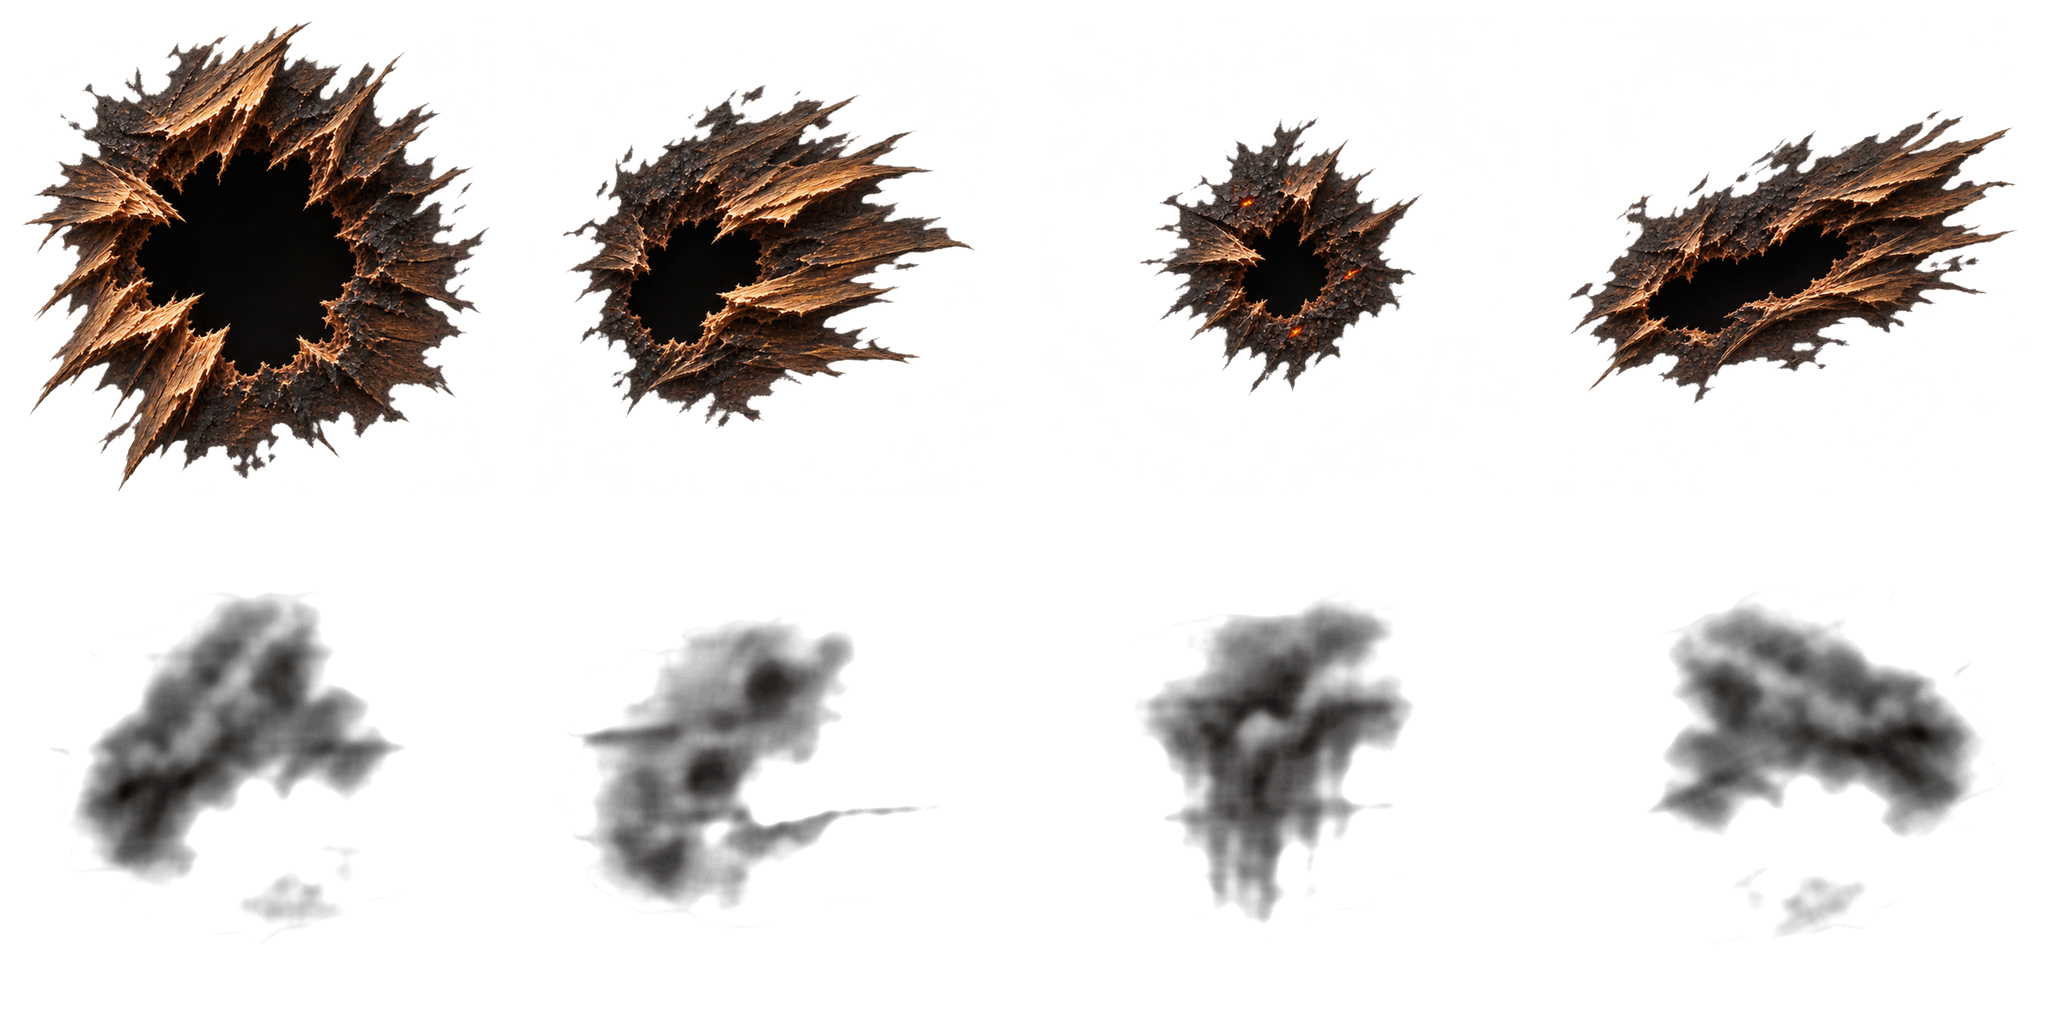
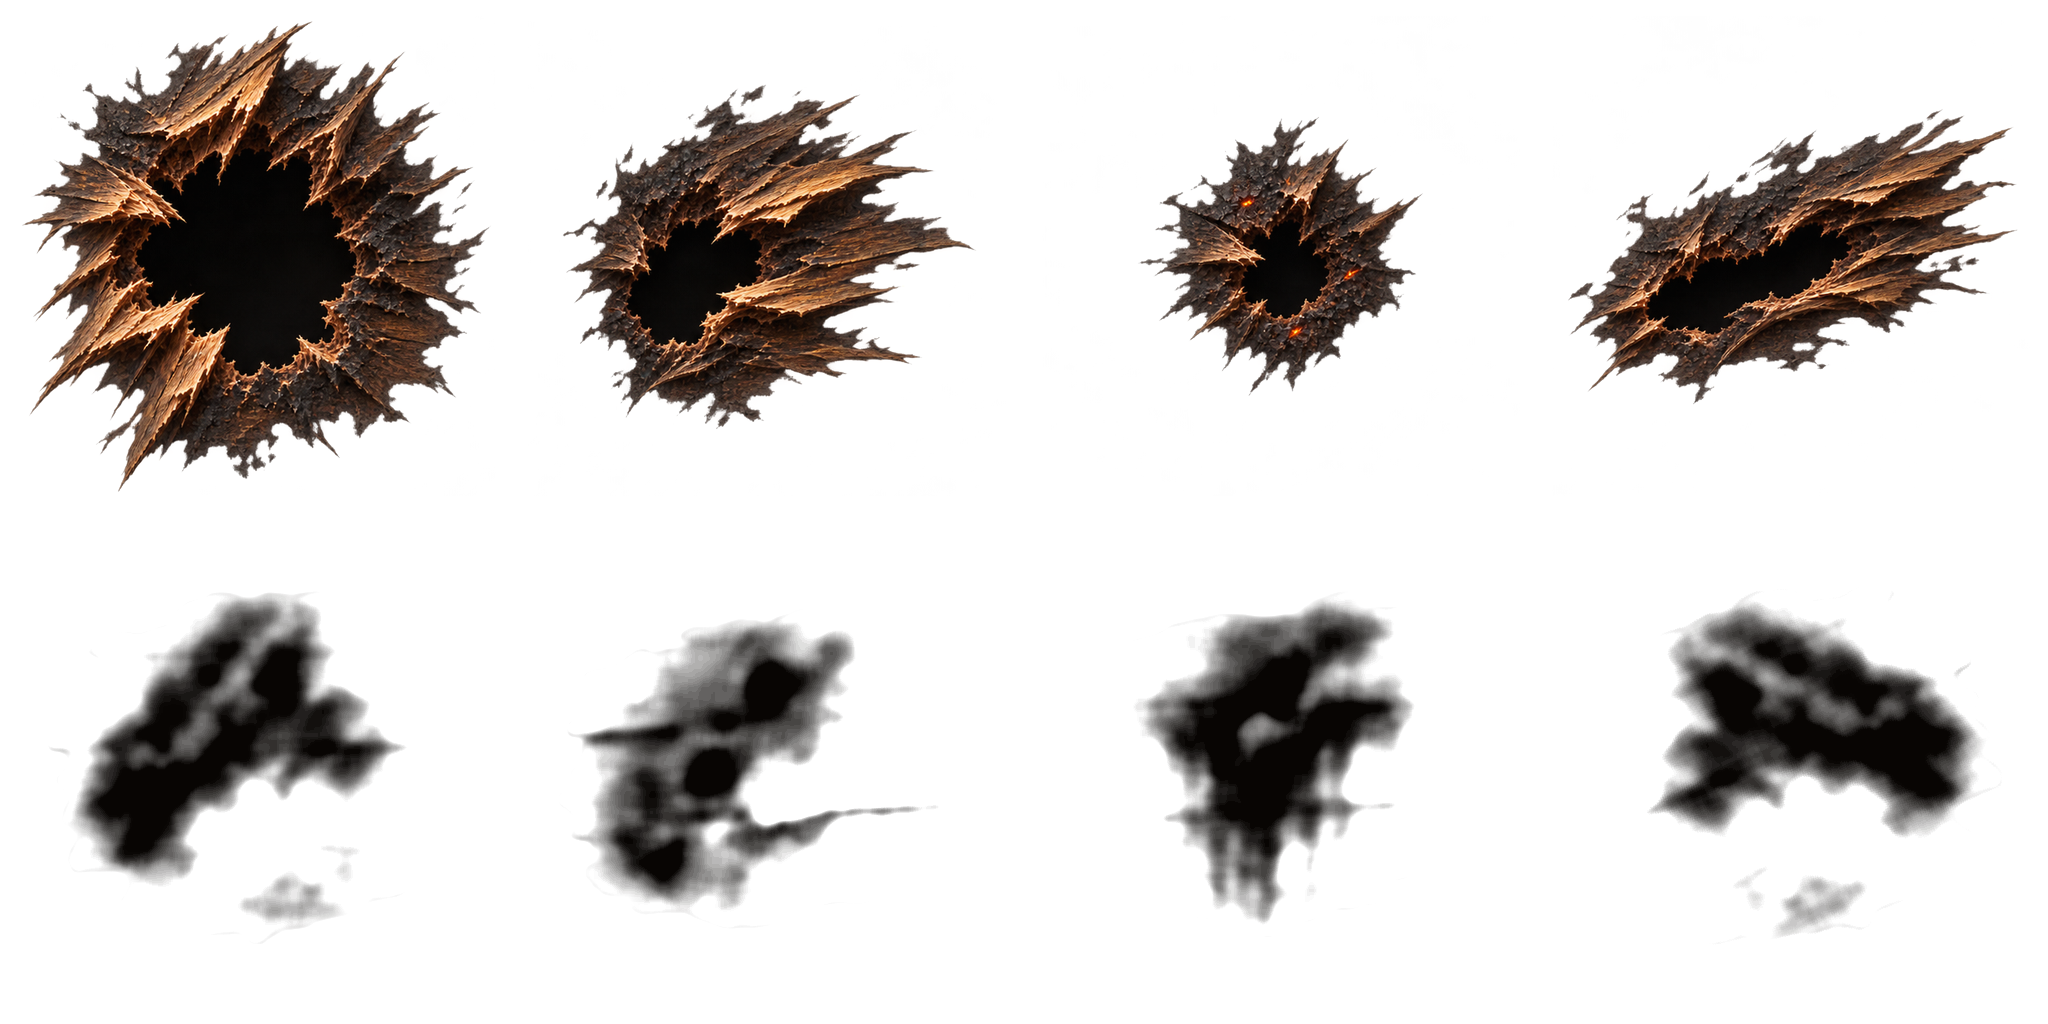
Без скрипа корпуса; прочность игрока ×3; при падении корабль не оставляет висящих в воздухе языков огня; попадание без белого пузыря (шар снаружи борта); пробоины крупнее, копоть плотнее, щепа темнее; кнопки бортов шире, пушки крупнее; sky-log 31
Claude-Session: https://claude.ai/code/session_01T1TvTJLYKBN3FTMh1L2sYH

diff --git a/Assets/_Project/Scripts/Ship/ShipImpactMarks.cs b/Assets/_Project/Scripts/Ship/ShipImpactMarks.cs
@@ -41,10 +41,10 @@ namespace SkyTide
             Vector3 point=parent.InverseTransformPoint(world),normal=parent.InverseTransformDirection(worldNormal).normalized;
             foreach(Mark m in marks)if((m.point-point).sqrMagnitude<.25f)return;
             if(marks.Count==16)marks.RemoveAt(0);
-            marks.Add(new Mark{point=point,normal=normal,radius=Mathf.Lerp(.95f,1.55f,Mathf.Clamp01(severity)),seed=seed});Rebuild();
+            marks.Add(new Mark{point=point,normal=normal,radius=Mathf.Lerp(1.3f,2f,Mathf.Clamp01(severity)),seed=seed});Rebuild();
         }
         /// <summary>One projected grid; cell = atlas cell (0..3 holes, 4..7 soot).</summary>
-        void Layer(List<int> tris,Mark m,float half,float angle,int cell,float lift)
+        void Layer(List<int> tris,Mark m,float half,float angle,int cell,float lift,byte tone)
         {
             Vector3 n=m.normal;
             Vector3 side=Vector3.Cross(n,Mathf.Abs(n.y)>.85f?Vector3.right:Vector3.up).normalized,up=Vector3.Cross(n,side);
@@ -58,7 +58,7 @@ namespace SkyTide
                 Vector3 p=m.point+ax*(u*2-1)+ay*(v*2-1),pn=n;ShipHitSurface.Contact hit;byte a=255;
                 if(surface.Trace(p+n*2.5f,p-n*4f,out hit)&&(hit.point-p).sqrMagnitude<4f){p=hit.point;}
                 else a=0;                                                   // off the hull: fade this corner out
-                vertices.Add(p+pn*lift);normals.Add(pn);colors.Add(new Color32(255,255,255,a));
+                vertices.Add(p+pn*lift);normals.Add(pn);colors.Add(new Color32(tone,tone,tone,a));
                 uv.Add(cellMin+new Vector2(.004f+u*.242f,.004f+v*.492f));
             }
             int row=Grid+1;
@@ -81,9 +81,9 @@ namespace SkyTide
                 ShipHitSurface.Contact probe;
                 if(!surface.Trace(m.point+m.normal*2.5f,m.point-m.normal*4f,out probe))continue;
                 float lift=.02f+(m.seed%16)*.001f;
-                int hole=m.radius>1.25f?(m.seed&1):2+(m.seed&1);
-                Layer(soot,m,m.radius*2f,Noise(m.seed,3)*Mathf.PI*2,4+(m.seed>>1&3),lift);
-                Layer(holes,m,m.radius,(Noise(m.seed,7)-.5f)*.9f,hole,lift+.006f);
+                int hole=m.radius>1.65f?(m.seed&1):2+(m.seed&1);
+                Layer(soot,m,m.radius*2.4f,Noise(m.seed,3)*Mathf.PI*2,4+(m.seed>>1&3),lift,255);
+                Layer(holes,m,m.radius,(Noise(m.seed,7)-.5f)*.9f,hole,lift+.006f,190);   // щепа чуть темнее — не светлая кайма на тёмном борту
             }
             List<int> all=new List<int>(soot.Count+holes.Count);all.AddRange(soot);all.AddRange(holes);   // soot under every hole
             mesh.Clear();mesh.SetVertices(vertices);mesh.SetNormals(normals);mesh.SetUVs(0,uv);mesh.SetColors(colors);

diff --git a/Assets/_Project/Scripts/Fx/FxSystem.cs b/Assets/_Project/Scripts/Fx/FxSystem.cs
@@ -132,12 +132,13 @@ namespace SkyTide
             Add(new P { kind = Kind.Flip, pos = at + Vector3.up * 2f * scale, vel = Vector3.up * 2.5f, age = -0.35f * Mathf.Sqrt(scale),
                         life = 4.5f * Mathf.Sqrt(scale), size0 = 8f * scale, size1 = 17f * scale, rot = Random.Range(0f, 6.28f), spin = Random.Range(-0.15f, 0.15f),
                         drag = 1f, rise = 1.2f, color = new Color(0.5f, 0.45f, 0.43f), alpha = 0.9f, seed = 2f + Random.value * 0.999f });
-            Add(new P { kind = Kind.Glow, pos = at, life = 0.14f * Mathf.Sqrt(scale), size0 = 4f * scale, size1 = 9f * scale, color = new Color(1f, 0.76f, 0.4f), alpha = 1f });
+            // Процедурное свечение — только короткая вспышка под нарисованным шаром (раньше белый пузырь поверх него).
+            Add(new P { kind = Kind.Glow, pos = at, life = 0.1f * Mathf.Sqrt(scale), size0 = 3f * scale, size1 = 6f * scale, color = new Color(1f, 0.6f, 0.28f), alpha = 0.55f });
             for (int k = 0; k < 6 * scale; k++)
             {
                 Vector3 r = Random.insideUnitSphere;
                 Add(new P { kind = Kind.Glow, pos = at + r * 1.5f * scale, vel = r * 8f * scale, life = Random.Range(0.2f, 0.45f) * Mathf.Sqrt(scale),
-                            size0 = 2f * scale, size1 = 5f * scale, color = new Color(1f, 0.36f, 0.08f), alpha = 0.6f });
+                            size0 = 1.5f * scale, size1 = 3.5f * scale, color = new Color(1f, 0.36f, 0.08f), alpha = 0.3f });
             }
             for (int k = 0; k < 14 * scale; k++)
             {
@@ -171,7 +172,8 @@ namespace SkyTide
 
         public void HullImpact(Vector3 at,Vector3 outward,Vector3 inheritedVelocity)
         {
-            Explosion(at,1f);
+            // Огненный шар — снаружи борта: из точки на корпусе половина листа уходила внутрь модели.
+            Explosion(at+outward*1.6f,1f);
             // Splinters leave the struck face instead of scattering equally into the hull.
             for(int i=0;i<9;i++)
             {

diff --git a/Assets/_Project/Scripts/Fx/SkySound.cs b/Assets/_Project/Scripts/Fx/SkySound.cs
@@ -22,6 +22,8 @@ namespace SkyTide
         int next;
         AudioSource sailSource, creakSource;
         float nextCreak;
+        /// <summary>Скрип корпуса выключен: на телефоне звучал как скрип двери (просьба владельца).</summary>
+        public static bool PlayCreaks = false;
         ShipController ship;
         struct Pending { public float at; public AudioClip clip; public Vector3 pos; public float vol, pitch, minD, maxD; }
         readonly List<Pending> pending = new List<Pending>();
@@ -114,7 +116,7 @@ namespace SkyTide
             bool quiet = MainMenu.Active || StudioSplash.Active;
             float speed01 = Mathf.Clamp01(Mathf.Abs(ship.Speed) / Mathf.Max(1f, ship.maxSpeed));
             if (sailSource != null) sailSource.volume = Mathf.MoveTowards(sailSource.volume, quiet ? 0f : 0.12f + 0.35f * speed01, Time.deltaTime * 0.5f);
-            if (!quiet && Time.time >= nextCreak && creakSource != null && creaks.Length > 0)
+            if (PlayCreaks && !quiet && Time.time >= nextCreak && creakSource != null && creaks.Length > 0)
             {
                 AudioClip c = creaks[Random.Range(0, creaks.Length)];
                 if (c != null) { creakSource.pitch = Random.Range(0.85f, 1.05f); creakSource.PlayOneShot(c, 0.25f + 0.35f * Mathf.Abs(ship.turn)); }

diff --git a/Assets/_Project/Scripts/Input/HudLayout.cs b/Assets/_Project/Scripts/Input/HudLayout.cs
@@ -15,7 +15,7 @@ namespace SkyTide
             l.safe = safeArea;
             l.unit = Mathf.Min(safeArea.height, safeArea.width);
             float u = l.unit, m = u * 0.03f, gap = u * 0.025f;
-            float w = u * 0.33f, h = u * 0.15f;   // кнопки бортов: поле внутри рамки вмещает название, пушку и состояние крупно
+            float w = Mathf.Max(u * 0.33f, Mathf.Min(u * 0.39f, safeArea.width * 0.18f)), h = u * 0.15f;   // кнопки бортов: поле внутри рамки вмещает название, пушку и состояние крупно
             l.starboard = new Rect(safeArea.xMax - m - w, safeArea.yMax - u * 0.09f - h, w, h);
             l.port = new Rect(l.starboard.x - gap - w, l.starboard.y, w, h);
             l.mode = new Rect(l.port.x, l.port.y - gap - u * 0.072f, w * 2f + gap, u * 0.072f);

diff --git a/Assets/_Project/Scripts/Ship/ShipDamageVisual.cs b/Assets/_Project/Scripts/Ship/ShipDamageVisual.cs
@@ -145,7 +145,8 @@ namespace SkyTide
                     {
                         Vector3 at=model.TransformPoint(vents[i]),normal=model.TransformDirection(ventNormals[i]);
                         fx.DamageSmoke(at+normal*.25f,damage);
-                        if(Burning)fx.DamageFire(at+normal*.4f,normal,damage,controller!=null?controller.transform.forward*controller.Speed:Vector3.zero);
+                        // При падении языки огня не догоняют разгоняющийся корпус и висят в воздухе — горит только до гибели, падает с дымом.
+                        if(Burning&&!Sinking)fx.DamageFire(at+normal*.4f,normal,damage,controller!=null?controller.transform.forward*controller.Speed:Vector3.zero);
                     }
                 }
             }

diff --git a/Assets/_Project/Scripts/Input/ShipHud.cs b/Assets/_Project/Scripts/Input/ShipHud.cs
@@ -222,9 +222,9 @@ namespace SkyTide
             bool ready=readiness>=0.9999f;
             Panel(r,l.unit,ready,input.Pressed(r));
             Rect c=Content(r);
-            Rect title=new Rect(c.x,c.y,c.width,c.height*0.38f);
+            Rect title=new Rect(c.x,c.y,c.width,c.height*0.36f);
             Text(title,side<0?"ЛЕВЫЙ БОРТ":"ПРАВЫЙ БОРТ",l.unit*0.03f,cream);
-            Rect row=new Rect(c.x,c.y+c.height*0.4f,c.width,c.height*0.42f);
+            Rect row=new Rect(c.x,c.y+c.height*0.38f,c.width,c.height*0.5f);
             if(HasKit)
             {
                 Rect src=side<0?KCannonL:KCannonR; float ih=row.height, iw=ih*src.width/src.height;

diff --git a/Assets/_Project/Scripts/Ship/PlayerHull.cs b/Assets/_Project/Scripts/Ship/PlayerHull.cs
@@ -9,7 +9,7 @@ namespace SkyTide
     public class PlayerHull : MonoBehaviour
     {
         public static PlayerHull Instance { get; private set; }
-        public float maxHealth = 100f;
+        public float maxHealth = 300f;   // втрое прочнее (просьба владельца): ~50 попаданий до гибели
         public float damagePerHit = 6f;
         public float respawnDelay = 4f;
         public float Health { get; private set; }
